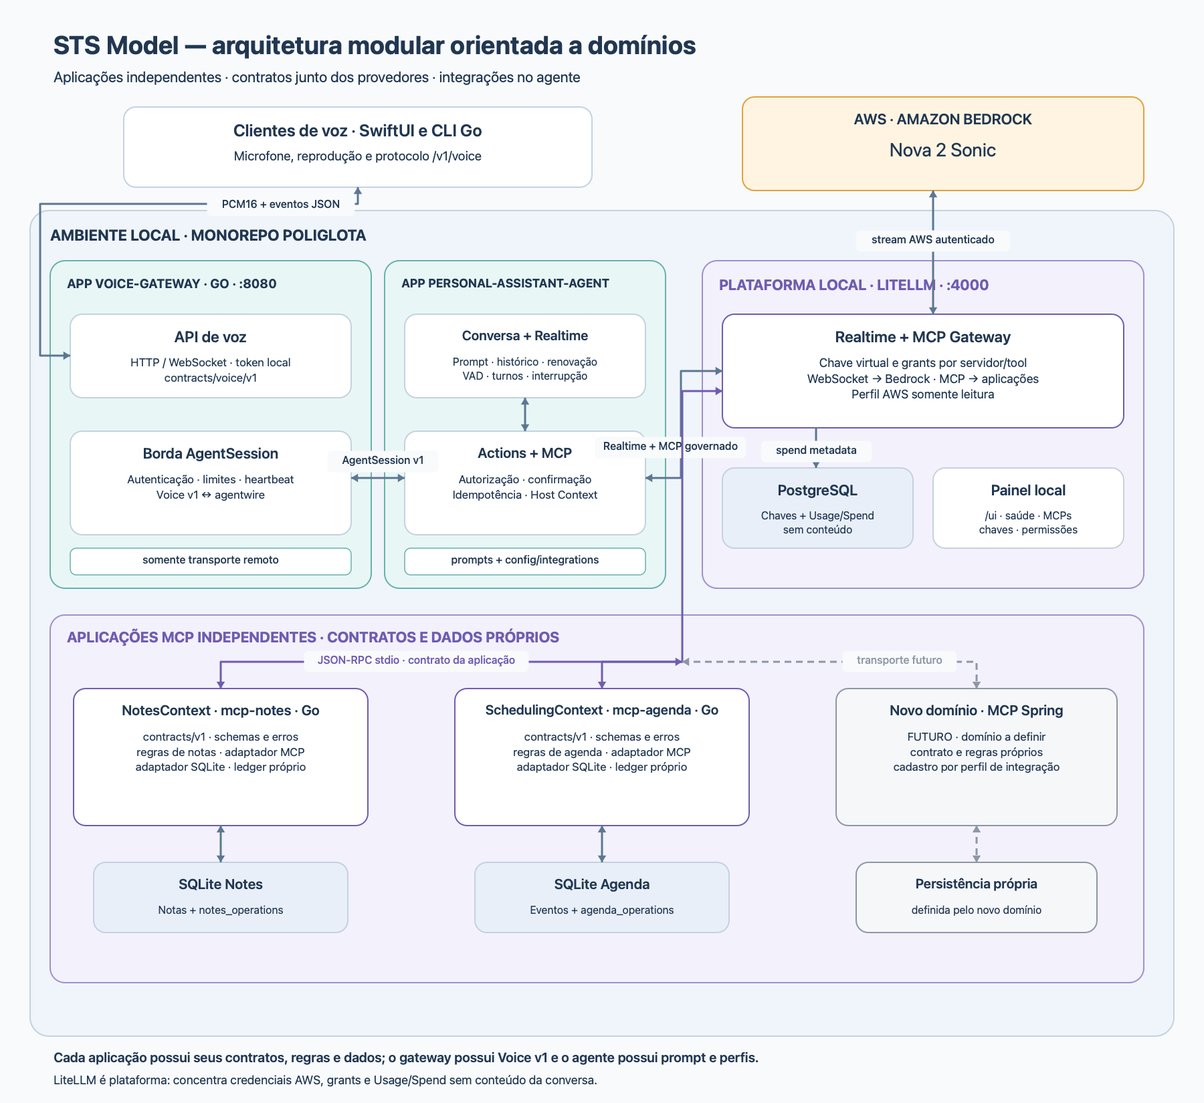
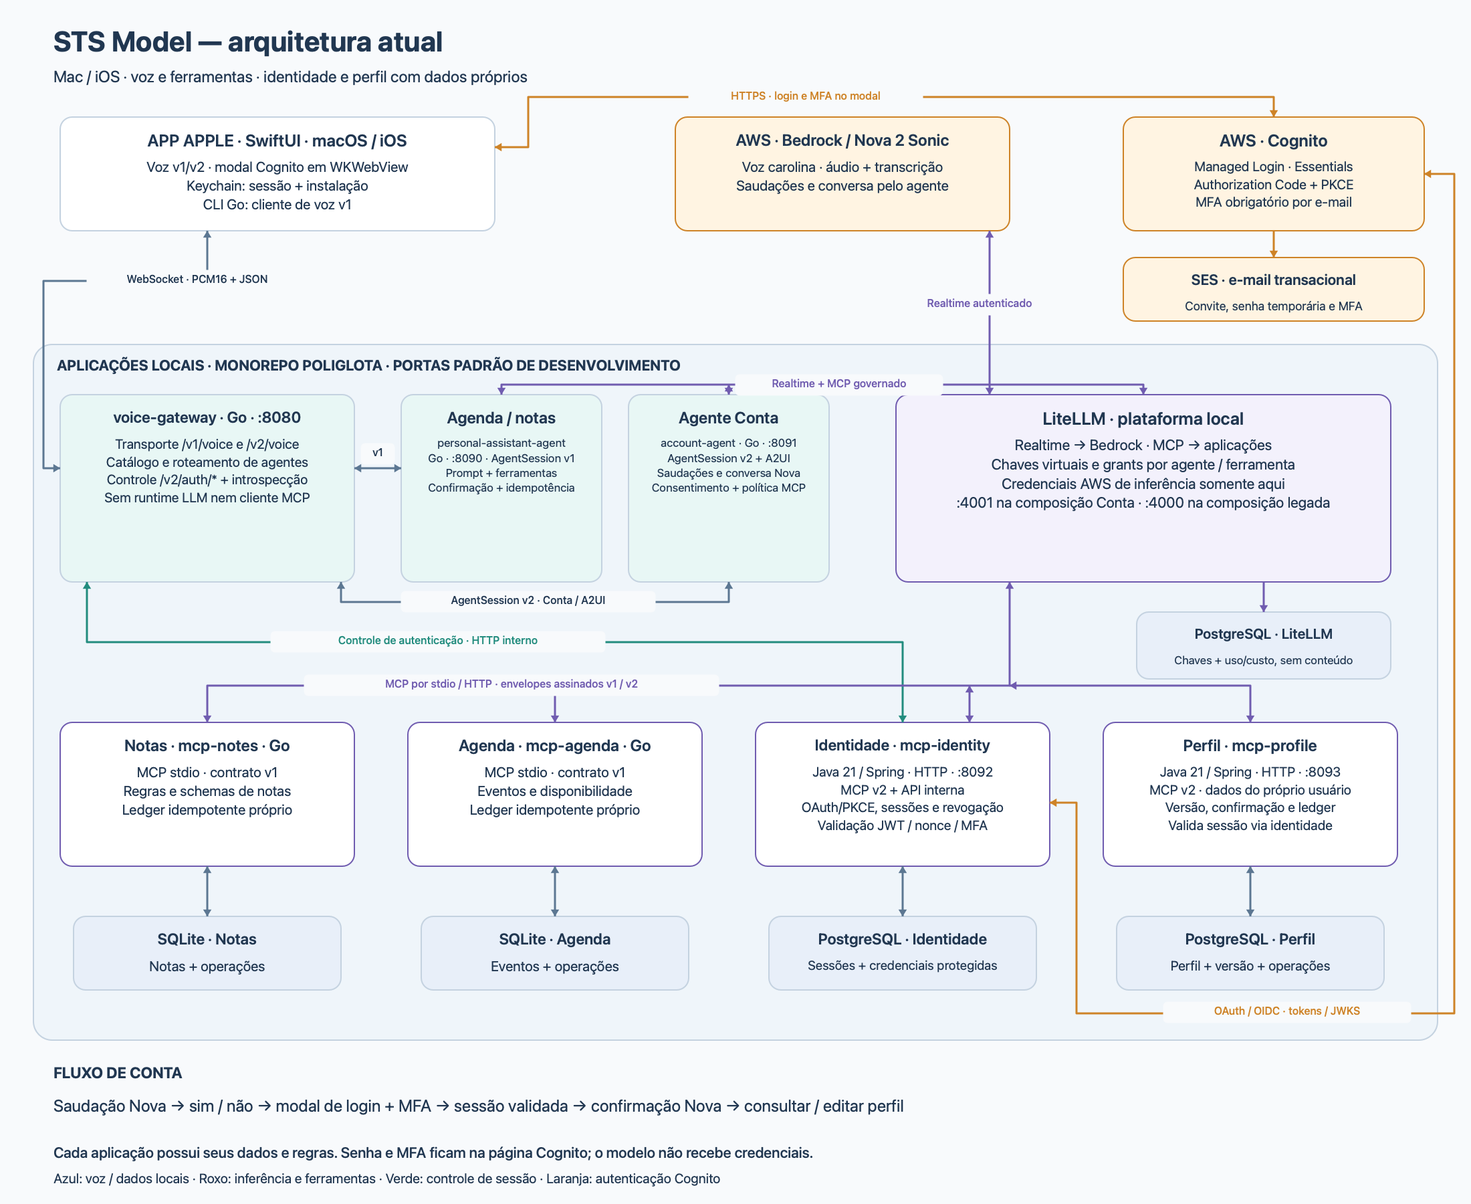
docs: update architecture diagram for account authentication flow

diff --git a/scripts/render_architecture.swift b/scripts/render_architecture.swift
@@ -3,8 +3,8 @@
 import AppKit
 import Foundation
 
-let width = 1800
-let height = 1650
+let width = 2200
+let height = 1800
 let output = CommandLine.arguments.dropFirst().first ?? "docs/images/architecture-litellm.png"
 
 let navy = NSColor(calibratedRed: 0.10, green: 0.16, blue: 0.25, alpha: 1)
@@ -59,7 +59,7 @@ func box(_ x: CGFloat, _ y: CGFloat, _ w: CGFloat, _ h: CGFloat,
     rounded(rect(x, y, w, h), fill: fill, stroke: stroke)
     text(title, x: x + 20, y: y + 20, w: w - 40, h: 34, size: titleSize, weight: .semibold)
     if !lines.isEmpty {
-        text(lines.joined(separator: "\n"), x: x + 18, y: y + 62, w: w - 36, h: h - 70,
+        text(lines.joined(separator: "\n"), x: x + 18, y: y + 62, w: w - 36, h: max(26, h - 70),
              size: bodySize)
     }
 }
@@ -111,114 +111,105 @@ NSGraphicsContext.current = context
 canvas.setFill()
 NSBezierPath(rect: NSRect(x: 0, y: 0, width: width, height: height)).fill()
 
-// Header and external systems.
-text("STS Model — arquitetura modular orientada a domínios", x: 80, y: 44, w: 1250, h: 52,
-     size: 38, weight: .bold, align: .left)
-text("Aplicações independentes · contratos junto dos provedores · integrações no agente",
-     x: 80, y: 102, w: 1500, h: 34, size: 22, align: .left)
+// Current implementation: two agents, four MCP applications and Cognito login.
+text("STS Model — arquitetura atual", x: 80, y: 36, w: 2000, h: 55,
+     size: 42, weight: .bold, align: .left)
+text("Mac / iOS · voz e ferramentas · identidade e perfil com dados próprios",
+     x: 80, y: 100, w: 1950, h: 34, size: 24, align: .left)
+let authColor = NSColor(calibratedRed: 0.76, green: 0.44, blue: 0.12, alpha: 1)
+let controlColor = NSColor(calibratedRed: 0.12, green: 0.48, blue: 0.42, alpha: 1)
 
-box(185, 160, 700, 120, title: "Clientes de voz · SwiftUI e CLI Go",
-    lines: ["Microfone, reprodução e protocolo /v1/voice"], titleSize: 25, bodySize: 19)
-box(1110, 145, 600, 140, title: "AWS · AMAZON BEDROCK",
-    lines: ["Nova 2 Sonic"], fill: awsFill,
-    stroke: NSColor(calibratedRed: 0.86, green: 0.57, blue: 0.18, alpha: 1),
-    titleSize: 22, bodySize: 28)
+box(90, 175, 650, 170, title: "APP APPLE · SwiftUI · macOS / iOS",
+    lines: ["Voz v1/v2 · modal Cognito em WKWebView", "Keychain: sessão + instalação", "CLI Go: cliente de voz v1"], titleSize: 25, bodySize: 21)
+box(1010, 175, 500, 170, title: "AWS · Bedrock / Nova 2 Sonic",
+    lines: ["Voz carolina · áudio + transcrição", "Saudações e conversa pelo agente"], fill: awsFill,
+    stroke: authColor, titleSize: 24, bodySize: 21)
+box(1680, 175, 450, 170, title: "AWS · Cognito",
+    lines: ["Managed Login · Essentials", "Authorization Code + PKCE", "MFA obrigatório por e-mail"], fill: awsFill,
+    stroke: authColor, titleSize: 25, bodySize: 20)
+box(1680, 385, 450, 95, title: "SES · e-mail transacional",
+    lines: ["Convite, senha temporária e MFA"], fill: awsFill,
+    stroke: authColor, titleSize: 22, bodySize: 18)
 
-// Local monorepo boundary.
-rounded(rect(45, 315, 1710, 1235), fill: localFill, stroke: border, radius: 28, width: 2)
-text("AMBIENTE LOCAL · MONOREPO POLIGLOTA", x: 75, y: 338, w: 600, h: 36,
-     size: 23, weight: .bold, align: .left)
+rounded(rect(50, 515, 2100, 1040), fill: localFill, stroke: border, radius: 28)
+text("APLICAÇÕES LOCAIS · MONOREPO POLIGLOTA · PORTAS PADRÃO DE DESENVOLVIMENTO",
+     x: 85, y: 533, w: 2000, h: 32, size: 22, weight: .bold, align: .left)
+box(90, 590, 440, 280, title: "voice-gateway · Go · :8080",
+    lines: ["Transporte /v1/voice e /v2/voice", "Catálogo e roteamento de agentes", "Controle /v2/auth/* + introspecção", "Sem runtime LLM nem cliente MCP"],
+    fill: gatewayFill, titleSize: 23, bodySize: 20)
+box(600, 590, 300, 280, title: "Agenda / notas",
+    lines: ["personal-assistant-agent", "Go · :8090 · AgentSession v1", "Prompt + ferramentas", "Confirmação + idempotência"],
+    fill: gatewayFill, titleSize: 24, bodySize: 17)
+box(940, 590, 300, 280, title: "Agente Conta",
+    lines: ["account-agent · Go · :8091", "AgentSession v2 + A2UI", "Saudações e conversa Nova", "Consentimento + política MCP"],
+    fill: gatewayFill, titleSize: 24, bodySize: 17)
+box(1340, 590, 740, 280, title: "LiteLLM · plataforma local",
+    lines: ["Realtime → Bedrock · MCP → aplicações", "Chaves virtuais e grants por agente / ferramenta", "Credenciais AWS de inferência somente aqui", ":4001 na composição Conta · :4000 na composição legada"],
+    fill: dockerFill, stroke: purple, titleSize: 26, bodySize: 22)
+box(1700, 915, 380, 100, title: "PostgreSQL · LiteLLM",
+    lines: ["Chaves + uso/custo, sem conteúdo"], fill: dbFill, titleSize: 21, bodySize: 17)
 
-// Voice gateway: public transport edge.
-rounded(rect(75, 390, 480, 490), fill: gatewayFill,
-        stroke: NSColor(calibratedRed: 0.35, green: 0.64, blue: 0.62, alpha: 1), radius: 22, width: 2)
-text("APP VOICE-GATEWAY · GO · :8080", x: 100, y: 413, w: 420, h: 34,
-     size: 19, weight: .bold, align: .left)
-box(105, 470, 420, 125, title: "API de voz",
-    lines: ["HTTP / WebSocket · token local", "contracts/voice/v1"], titleSize: 23, bodySize: 17)
-box(105, 645, 420, 155, title: "Borda AgentSession",
-    lines: ["Autenticação · limites · heartbeat", "Voice v1 ↔ agentwire"], titleSize: 22, bodySize: 17)
-rounded(rect(105, 820, 420, 40), fill: white,
-        stroke: NSColor(calibratedRed: 0.35, green: 0.64, blue: 0.62, alpha: 1), radius: 9, width: 1.5)
-text("somente transporte remoto", x: 120, y: 828, w: 390, h: 24, size: 16, weight: .medium)
+box(90, 1080, 440, 215, title: "Notas · mcp-notes · Go",
+    lines: ["MCP stdio · contrato v1", "Regras e schemas de notas", "Ledger idempotente próprio"], stroke: purple, titleSize: 24, bodySize: 21)
+box(610, 1080, 440, 215, title: "Agenda · mcp-agenda · Go",
+    lines: ["MCP stdio · contrato v1", "Eventos e disponibilidade", "Ledger idempotente próprio"], stroke: purple, titleSize: 24, bodySize: 21)
+box(1130, 1080, 440, 215, title: "Identidade · mcp-identity",
+    lines: ["Java 21 / Spring · HTTP · :8092", "MCP v2 + API interna", "OAuth/PKCE, sessões e revogação", "Validação JWT / nonce / MFA"], stroke: purple, titleSize: 23, bodySize: 20)
+box(1650, 1080, 440, 215, title: "Perfil · mcp-profile",
+    lines: ["Java 21 / Spring · HTTP · :8093", "MCP v2 · dados do próprio usuário", "Versão, confirmação e ledger", "Valida sessão via identidade"], stroke: purple, titleSize: 24, bodySize: 20)
+box(110, 1370, 400, 110, title: "SQLite · Notas",
+    lines: ["Notas + operações"], fill: dbFill, titleSize: 23, bodySize: 21)
+box(630, 1370, 400, 110, title: "SQLite · Agenda",
+    lines: ["Eventos + operações"], fill: dbFill, titleSize: 23, bodySize: 21)
+box(1150, 1370, 400, 110, title: "PostgreSQL · Identidade",
+    lines: ["Sessões + credenciais protegidas"], fill: dbFill, titleSize: 23, bodySize: 19)
+box(1670, 1370, 400, 110, title: "PostgreSQL · Perfil",
+    lines: ["Perfil + versão + operações"], fill: dbFill, titleSize: 23, bodySize: 20)
 
-// Personal assistant owns semantic conversation and integrations.
-rounded(rect(575, 390, 420, 490), fill: gatewayFill,
-        stroke: NSColor(calibratedRed: 0.35, green: 0.64, blue: 0.62, alpha: 1), radius: 22, width: 2)
-text("APP PERSONAL-ASSISTANT-AGENT", x: 600, y: 413, w: 370, h: 34,
-     size: 18, weight: .bold, align: .left)
-box(605, 470, 360, 125, title: "Conversa + Realtime",
-    lines: ["Prompt · histórico · renovação", "VAD · turnos · interrupção"], titleSize: 20, bodySize: 16)
-box(605, 645, 360, 155, title: "Actions + MCP",
-    lines: ["Autorização · confirmação", "Idempotência · Host Context"], titleSize: 21, bodySize: 17)
-rounded(rect(605, 820, 360, 40), fill: white,
-        stroke: NSColor(calibratedRed: 0.35, green: 0.64, blue: 0.62, alpha: 1), radius: 9, width: 1.5)
-text("prompts + config/integrations", x: 620, y: 828, w: 330, h: 24, size: 16, weight: .medium)
+// External browser login and voice paths are distinct.
+arrow([(740, 220), (790, 220), (790, 145), (1905, 145), (1905, 175)], both: true, color: authColor)
+pill("HTTPS · login e MFA no modal", x: 1030, y: 130, w: 350, color: authColor)
+arrow([(1905, 345), (1905, 385)], color: authColor)
+arrow([(310, 345), (310, 420), (65, 420), (65, 700), (90, 700)], both: true)
+pill("WebSocket · PCM16 + JSON", x: 130, y: 404, w: 330)
+arrow([(1480, 590), (1480, 345)], both: true, color: purple)
+pill("Realtime autenticado", x: 1340, y: 440, w: 250, color: purple)
 
-// LiteLLM owns cloud credentials and platform metadata; it is not a business domain.
-rounded(rect(1050, 390, 660, 490), fill: dockerFill,
-        stroke: NSColor(calibratedRed: 0.56, green: 0.48, blue: 0.76, alpha: 1), radius: 22, width: 2)
-text("PLATAFORMA LOCAL · LITELLM · :4000", x: 1075, y: 413, w: 570, h: 34,
-     size: 22, weight: .bold, color: purple, align: .left)
-box(1080, 470, 600, 170, title: "Realtime + MCP Gateway",
-    lines: ["Chave virtual e grants por servidor/tool", "WebSocket → Bedrock · MCP → aplicações", "Perfil AWS somente leitura"],
-    fill: white, stroke: purple, titleSize: 23, bodySize: 18)
-box(1080, 700, 285, 120, title: "PostgreSQL",
-    lines: ["Chaves + Usage/Spend", "sem conteúdo"], fill: dbFill, titleSize: 22, bodySize: 16)
-box(1395, 700, 285, 120, title: "Painel local",
-    lines: ["/ui · saúde · MCPs", "chaves · permissões"], fill: white, titleSize: 22, bodySize: 16)
+// Public voice is translated to each agent's session contract.
+arrow([(530, 700), (600, 700)], both: true)
+pill("v1", x: 540, y: 663, w: 50)
+arrow([(510, 870), (510, 900), (1090, 900), (1090, 870)], both: true)
+pill("AgentSession v2 · Conta / A2UI", x: 600, y: 884, w: 380)
+arrow([(750, 590), (750, 575), (1710, 575), (1710, 590)], both: true, color: purple)
+arrow([(1090, 590), (1090, 575)], both: true, color: purple)
+pill("Realtime + MCP governado", x: 1100, y: 560, w: 310, color: purple)
+arrow([(1890, 870), (1890, 915)], color: purple)
 
-// Independent MCP applications. Each application owns its contract, rules and data.
-rounded(rect(75, 920, 1635, 550), fill: dockerFill,
-        stroke: NSColor(calibratedRed: 0.56, green: 0.48, blue: 0.76, alpha: 1), radius: 22, width: 2)
-text("APLICAÇÕES MCP INDEPENDENTES · CONTRATOS E DADOS PRÓPRIOS",
-     x: 100, y: 940, w: 1000, h: 34, size: 22, weight: .bold, color: purple, align: .left)
+// Auth control bypasses the conversational tool path.
+arrow([(130, 870), (130, 960), (1350, 960), (1350, 1080)], both: true, color: controlColor)
+pill("Controle de autenticação · HTTP interno", x: 405, y: 944, w: 500, color: controlColor)
 
-box(110, 1030, 440, 205, title: "NotesContext · mcp-notes · Go",
-    lines: ["contracts/v1 · schemas e erros", "regras de notas · adaptador MCP", "adaptador SQLite · ledger próprio"],
-    fill: white, stroke: purple, titleSize: 21, bodySize: 17)
-box(680, 1030, 440, 205, title: "SchedulingContext · mcp-agenda · Go",
-    lines: ["contracts/v1 · schemas e erros", "regras de agenda · adaptador MCP", "adaptador SQLite · ledger próprio"],
-    fill: white, stroke: purple, titleSize: 20, bodySize: 17)
-box(1250, 1030, 420, 205, title: "Novo domínio · MCP Spring",
-    lines: ["FUTURO · domínio a definir", "contrato e regras próprios", "cadastro por perfil de integração"],
-    fill: futureFill, stroke: futureLine, titleSize: 21, bodySize: 17)
+// Tool access always goes through LiteLLM and the agent's grants.
+arrow([(1510, 870), (1510, 1025), (310, 1025), (310, 1080)], both: true, color: purple)
+arrow([(830, 1025), (830, 1080)], both: true, color: purple)
+arrow([(1450, 1025), (1450, 1080)], both: true, color: purple)
+arrow([(1510, 1025), (1870, 1025), (1870, 1080)], both: true, color: purple)
+pill("MCP por stdio / HTTP · envelopes assinados v1 / v2", x: 455, y: 1009, w: 620, color: purple)
+for x: CGFloat in [310, 830, 1350, 1870] {
+    arrow([(x, 1295), (x, 1370)], both: true)
+}
 
-box(140, 1290, 380, 105, title: "SQLite Notes",
-    lines: ["Notas + notes_operations"], fill: dbFill, titleSize: 21, bodySize: 16)
-box(710, 1290, 380, 105, title: "SQLite Agenda",
-    lines: ["Eventos + agenda_operations"], fill: dbFill, titleSize: 21, bodySize: 16)
-box(1280, 1290, 360, 105, title: "Persistência própria",
-    lines: ["definida pelo novo domínio"], fill: futureFill, stroke: futureLine, titleSize: 20, bodySize: 16)
+// Identity's own provider adapter validates/exchanges with Cognito.
+arrow([(1570, 1200), (1610, 1200), (1610, 1515), (2175, 1515), (2175, 260), (2130, 260)], both: true, color: authColor)
+pill("OAuth / OIDC · tokens / JWKS", x: 1740, y: 1498, w: 370, color: authColor)
 
-// Voice and inference paths.
-arrow([(535, 280), (535, 305), (60, 305), (60, 532), (105, 532)], both: true)
-pill("PCM16 + eventos JSON", x: 310, y: 292, w: 220)
-arrow([(525, 715), (605, 715)], both: true)
-pill("AgentSession v1", x: 490, y: 675, w: 165)
-arrow([(785, 595), (785, 645)], both: true)
-arrow([(965, 715), (1018, 715), (1018, 555), (1080, 555)], both: true)
-pill("Realtime + MCP governado", x: 890, y: 654, w: 225)
-arrow([(1395, 470), (1395, 285)], both: true)
-pill("stream AWS autenticado", x: 1280, y: 345, w: 230)
-arrow([(1220, 640), (1220, 700)])
-pill("spend metadata", x: 1138, y: 660, w: 165)
-
-// MCP paths. Current apps use stdio; the Spring app is an explicit future extension.
-arrow([(1080, 585), (1020, 585), (1020, 990), (330, 990), (330, 1030)], both: true, color: purple)
-arrow([(1020, 990), (900, 990), (900, 1030)], both: true, color: purple)
-pill("JSON-RPC stdio · contrato da aplicação", x: 455, y: 974, w: 335, color: purple)
-arrow([(1020, 990), (1460, 990), (1460, 1030)], both: true, color: futureLine, dashed: true)
-pill("transporte futuro", x: 1260, y: 974, w: 170, color: futureLine)
-arrow([(330, 1235), (330, 1290)], both: true)
-arrow([(900, 1235), (900, 1290)], both: true)
-arrow([(1460, 1235), (1460, 1290)], both: true, color: futureLine, dashed: true)
-
-// Footer.
-text("Cada aplicação possui seus contratos, regras e dados; o gateway possui Voice v1 e o agente possui prompt e perfis.",
-     x: 80, y: 1570, w: 1640, h: 28, size: 20, weight: .semibold, align: .left)
-text("LiteLLM é plataforma: concentra credenciais AWS, grants e Usage/Spend sem conteúdo da conversa.",
-     x: 80, y: 1605, w: 1640, h: 28, size: 18, align: .left)
+text("FLUXO DE CONTA", x: 80, y: 1590, w: 2000, h: 32, size: 23, weight: .bold, align: .left)
+text("Saudação Nova → sim / não → modal de login + MFA → sessão validada → confirmação Nova → consultar / editar perfil",
+     x: 80, y: 1638, w: 2040, h: 55, size: 25, align: .left)
+text("Cada aplicação possui seus dados e regras. Senha e MFA ficam na página Cognito; o modelo não recebe credenciais.",
+     x: 80, y: 1710, w: 2040, h: 34, size: 22, weight: .medium, align: .left)
+text("Azul: voz / dados locais · Roxo: inferência e ferramentas · Verde: controle de sessão · Laranja: autenticação Cognito",
+     x: 80, y: 1750, w: 2040, h: 28, size: 20, align: .left)
 
 context.flushGraphics()
 NSGraphicsContext.restoreGraphicsState()

diff --git a/docs/architecture.md b/docs/architecture.md
@@ -1,57 +1,92 @@
 # Arquitetura
 
+![Arquitetura atual](images/architecture-litellm.png)
+
+O diagrama representa o estado implementado. A fonte é
+[`render_architecture.swift`](../scripts/render_architecture.swift); gere o PNG
+com `make architecture-diagram` após alterar os fluxos.
+
 ```text
-App Apple / voice-client
-  │ WebSocket /v1/voice · JSON + PCM16 16 kHz
-  ▼
-voice-gateway · borda Go
-  ├─ autenticação, limites, heartbeat e métricas de transporte
-  ├─ contracts/voice/v1 → contrato público
-  └─ AgentSession → personal-assistant-agent
-                       ├─ prompt, histórico, VAD/barge-in e renovação
-                       ├─ Actions → autorização, confirmação e tools
-                       ├─ config/integrations/ → aliases, allowlist e políticas
-                       └─ Realtime/MCP → LiteLLM
-                            ├─ perfil AWS somente leitura → Bedrock/Nova
-                            ├─ PostgreSQL → chaves + Usage/Spend
-                            └─ MCP stdio
-                                 ├─ mcp-notes → contrato e SQLite próprios
-                                 └─ mcp-agenda → contrato e SQLite próprios
+App Apple (macOS/iOS)                         AWS
+  ├─ voz v1/v2 → voice-gateway                ├─ Bedrock / Nova 2 Sonic
+  ├─ modal WKWebView ────────────────────────→├─ Cognito → SES (e-mail/MFA)
+  └─ Keychain: instalação e refresh           └─ token endpoint / JWKS
+                    │
+voice-gateway (Go, :8080)
+  ├─ /v1/voice → AgentSession v1 → personal-assistant-agent (:8090)
+  ├─ /v2/voice → AgentSession v2 → account-agent (:8091)
+  └─ /v2/auth/* e introspecção → API interna de mcp-identity (:8092)
+
+Agentes → LiteLLM (chaves e grants separados por agente/ferramenta)
+  ├─ Realtime → Bedrock / Nova 2 Sonic
+  ├─ PostgreSQL próprio → chaves e uso/custo, sem conteúdo da conversa
+  ├─ MCP stdio / envelope v1
+  │    ├─ mcp-notes  → SQLite de notas + ledger
+  │    └─ mcp-agenda → SQLite de agenda + ledger
+  └─ MCP HTTP / envelope v2
+       ├─ mcp-identity (:8092) → PostgreSQL de identidade
+       │    └─ adaptador Cognito: OAuth/PKCE, JWT, nonce, MFA e revogação
+       └─ mcp-profile (:8093) → PostgreSQL de perfil + versão/ledger
+            └─ valida sessão pela API interna de mcp-identity
 ```
-
-O protocolo público termina no gateway. Ele traduz Voice v1 para a porta
-`AgentSession`; o agente traduz a conversa para OpenAI Realtime, mas não
-conhece SigV4, Bedrock ou credenciais AWS. LiteLLM é a única fronteira cloud e
-não há fallback direto. `agent-session/v1` remoto é padrão e restrito a
-loopback. Em `v0.11.0`, não há adapter in-process no gateway; rollback usa
-o conjunto de binários/configuração `v0.10.x`. Nova e fake rodam no agente.
-
-Cada WebSocket usa seu `requestId` como session/trace ID e recebe as tags
-`sts`, `voice` e `nova`. A chave `sts-go-gateway` autoriza somente
-`nova-sonic`, `/v1/realtime` e os MCPs selecionados.
 
 ## Responsabilidades
 
-- App: captura/reprodução, UI e descarte imediato de áudio interrompido.
-- Voice gateway: autenticação local, WebSocket público, PCM, limites,
-  heartbeat, roteamento e métricas de transporte.
-- Personal assistant agent: prompt, histórico textual limitado, renovação,
-  autorização, confirmação e integração de ferramentas.
-- Apps MCP: regras de negócio, contratos públicos, persistência e ledger
-  idempotente de suas próprias operações.
-- LiteLLM: conexão Bedrock Realtime, credenciais AWS, grants e spend logs.
-- PostgreSQL: uso/custo e estado operacional do LiteLLM, sem conteúdo.
-- SQLite Notes/Agenda: dados de negócio e replay seguro de mutações, sem schema
-  ou ledger compartilhado entre as aplicações.
+- App Apple: captura/reprodução, agentes, A2UI restrita, modal de login com
+  WebView temporária e Keychain. Senha/MFA são preenchidos na página Cognito;
+  não há bridge JavaScript ou envio desses campos ao modelo. O CLI Go é cliente
+  do protocolo de voz v1.
+- Voice gateway: WebSocket público, autenticação local, catálogo de agentes,
+  limites, heartbeat e tradução Voice/AgentSession. O canal de controle valida
+  sessões na identidade; não executa o runtime de conversa nem chama ferramentas MCP.
+- Personal assistant agent: conversa de Agenda/notas, prompt, histórico limitado,
+  ferramentas, autorização, confirmação e idempotência.
+- Account agent: conversa Conta, apresentação e confirmação pela Nova Sonic,
+  consentimento de login, UI A2UI e políticas para identidade/perfil.
+- Identidade: transações OAuth/PKCE, integração Cognito, credenciais opacas,
+  vínculo ao dispositivo, renovação/revogação e persistência própria.
+- Perfil: dados básicos do próprio usuário, controle de versão e ledger;
+  valida a sessão por API de identidade antes de acessar seus próprios dados.
+- Notes/Agenda: contratos, regras e SQLite/ledger exclusivos de cada aplicação.
+- LiteLLM: inferência Bedrock, credenciais AWS de inferência, chaves virtuais,
+  grants MCP, guardrails e uso/custo sem conteúdo. O agente não possui SigV4 ou
+  fallback direto para Bedrock. O controle OAuth usa diretamente a identidade.
 
-O SQLite de auditoria do gateway foi removido. Instalações existentes não são
-migradas nem apagadas; suas tabelas antigas ficam órfãs.
+Domínios são capacidades de negócio. Go, Java/Spring, SQLite e PostgreSQL são
+escolhas técnicas; os bancos de identidade, perfil e plataforma são separados.
+As bibliotecas `packages/go/realtime`, `actionruntime`, `agentwire`, `voicewire`
+e `mcpwire` não possuem regras ou dados de negócio de outras aplicações.
 
-## Contrato de áudio e falhas
+## Fluxo Conta
 
-Entrada é PCM16 LE mono 16 kHz e saída é PCM16 mono 24 kHz. Áudio e eventos
-são transmitidos continuamente. Silêncio, fechamento anormal ou erro do
-LiteLLM encerram a sessão com erro controlado. Mutações com resultado
-desconhecido não são repetidas automaticamente.
+1. Sem sessão, o agente pede à Nova Sonic que diga “Sou agente STS para logar
+   sua conta, deseja continuar?”. A voz e a transcrição vêm do provedor.
+2. A resposta afirmativa ou o botão de consentimento permitem criar a transação;
+   uma negativa encerra a sessão. O modelo não antecipa a criação do login.
+3. A A2UI validada abre “Entre com seus dados”. A conversa/microfone são
+   interrompidos. Autenticar carrega Cognito na WebView do mesmo modal.
+4. O callback passa pelo controle `/v2/auth/*`. Identidade valida transação,
+   state, PKCE, nonce, tokens e configuração MFA; o app guarda o refresh no Keychain.
+5. A nova sessão recebe identidade confirmada pelo gateway. Nova diz “Conta
+   conectada com sucesso, agora você pode consultar e editar informações da sua conta”.
+   Restaurar a sessão salva usa o mesmo caminho. Renovações técnicas não repetem a fala.
+6. Consultas e alterações de perfil passam por MCP, contexto assinado e políticas.
+   Alterações exigem confirmação e preservam versão/idempotência.
 
-Consulte o [runbook Nova/LiteLLM](nova-litellm-runbook.md).
+## Contratos, operação e limites
+
+- Voice v1 e AgentSession v1 preservam Agenda/notas; Conta acrescenta Voice v2,
+  AgentSession v2, A2UI e envelope MCP v2 nos contratos dos respectivos provedores.
+- Entrada de voz: PCM16 LE mono 16 kHz. Saída: PCM16 mono 24 kHz.
+- Agentes escutam em loopback. Fora de loopback, o app exige HTTPS/WSS.
+- A composição Conta expõe LiteLLM em `4001`; a legada usa `4000`. São
+  composições de desenvolvimento, com credenciais e bancos próprios.
+- O fake é explícito e não comprova ASR, login Cognito ou MFA. O envio SES de
+  desenvolvimento respeita o sandbox e os destinatários verificados.
+- Mutações de resultado desconhecido não são repetidas automaticamente.
+- Diagramas, exemplos e políticas versionados não contêm identificadores reais
+  da conta AWS ou credenciais. O ambiente efetivo fica nos arquivos locais ignorados.
+
+Consulte o [guia Conta](domains/account-development.md),
+o [guia AWS](domains/account-aws-setup.md) e o
+[runbook Nova/LiteLLM](nova-litellm-runbook.md).

diff --git a/README.md b/README.md
@@ -33,6 +33,9 @@ restaurar o conjunto de binários/configuração `v0.10.x`.
 
 ![Arquitetura da POC](docs/images/architecture-litellm.png)
 
+O diagrama inclui os agentes Agenda/notas e Conta, os MCPs de identidade/perfil,
+os bancos separados e o login Cognito/SES no modal Mac/iOS.
+
 O PNG é gerado por `scripts/render_architecture.swift`. Depois de alterar o
 fluxo, execute `make architecture-diagram` para mantê-lo sincronizado com a
 documentação.
